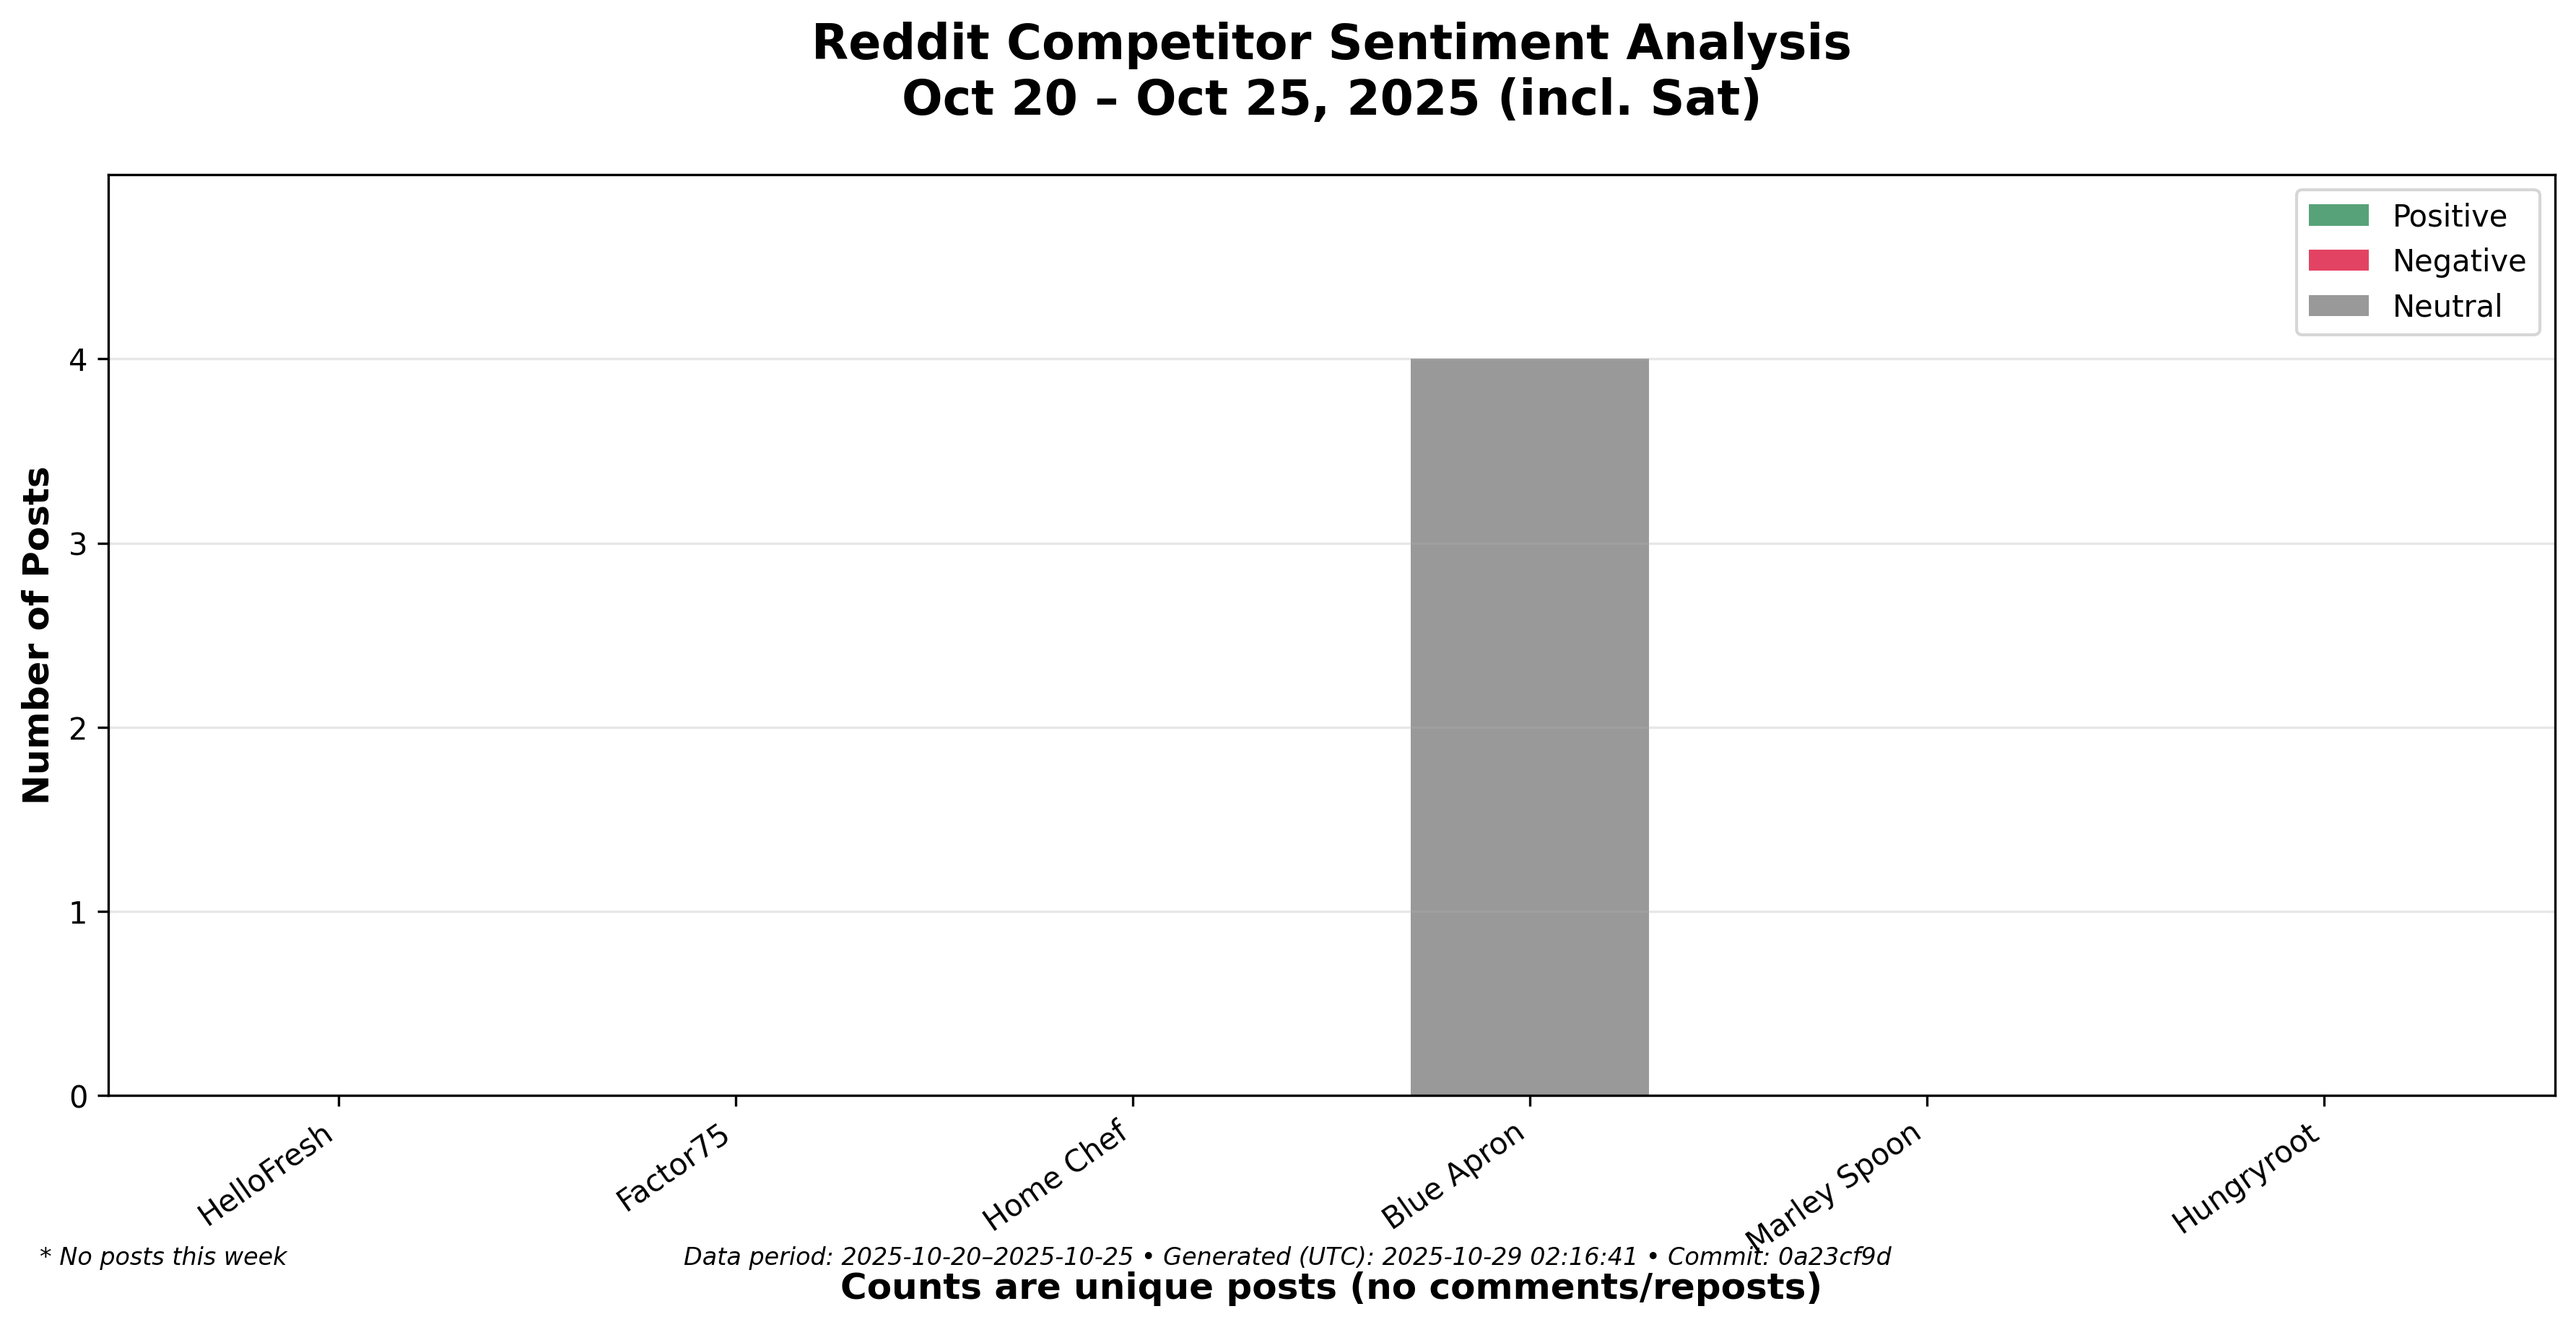
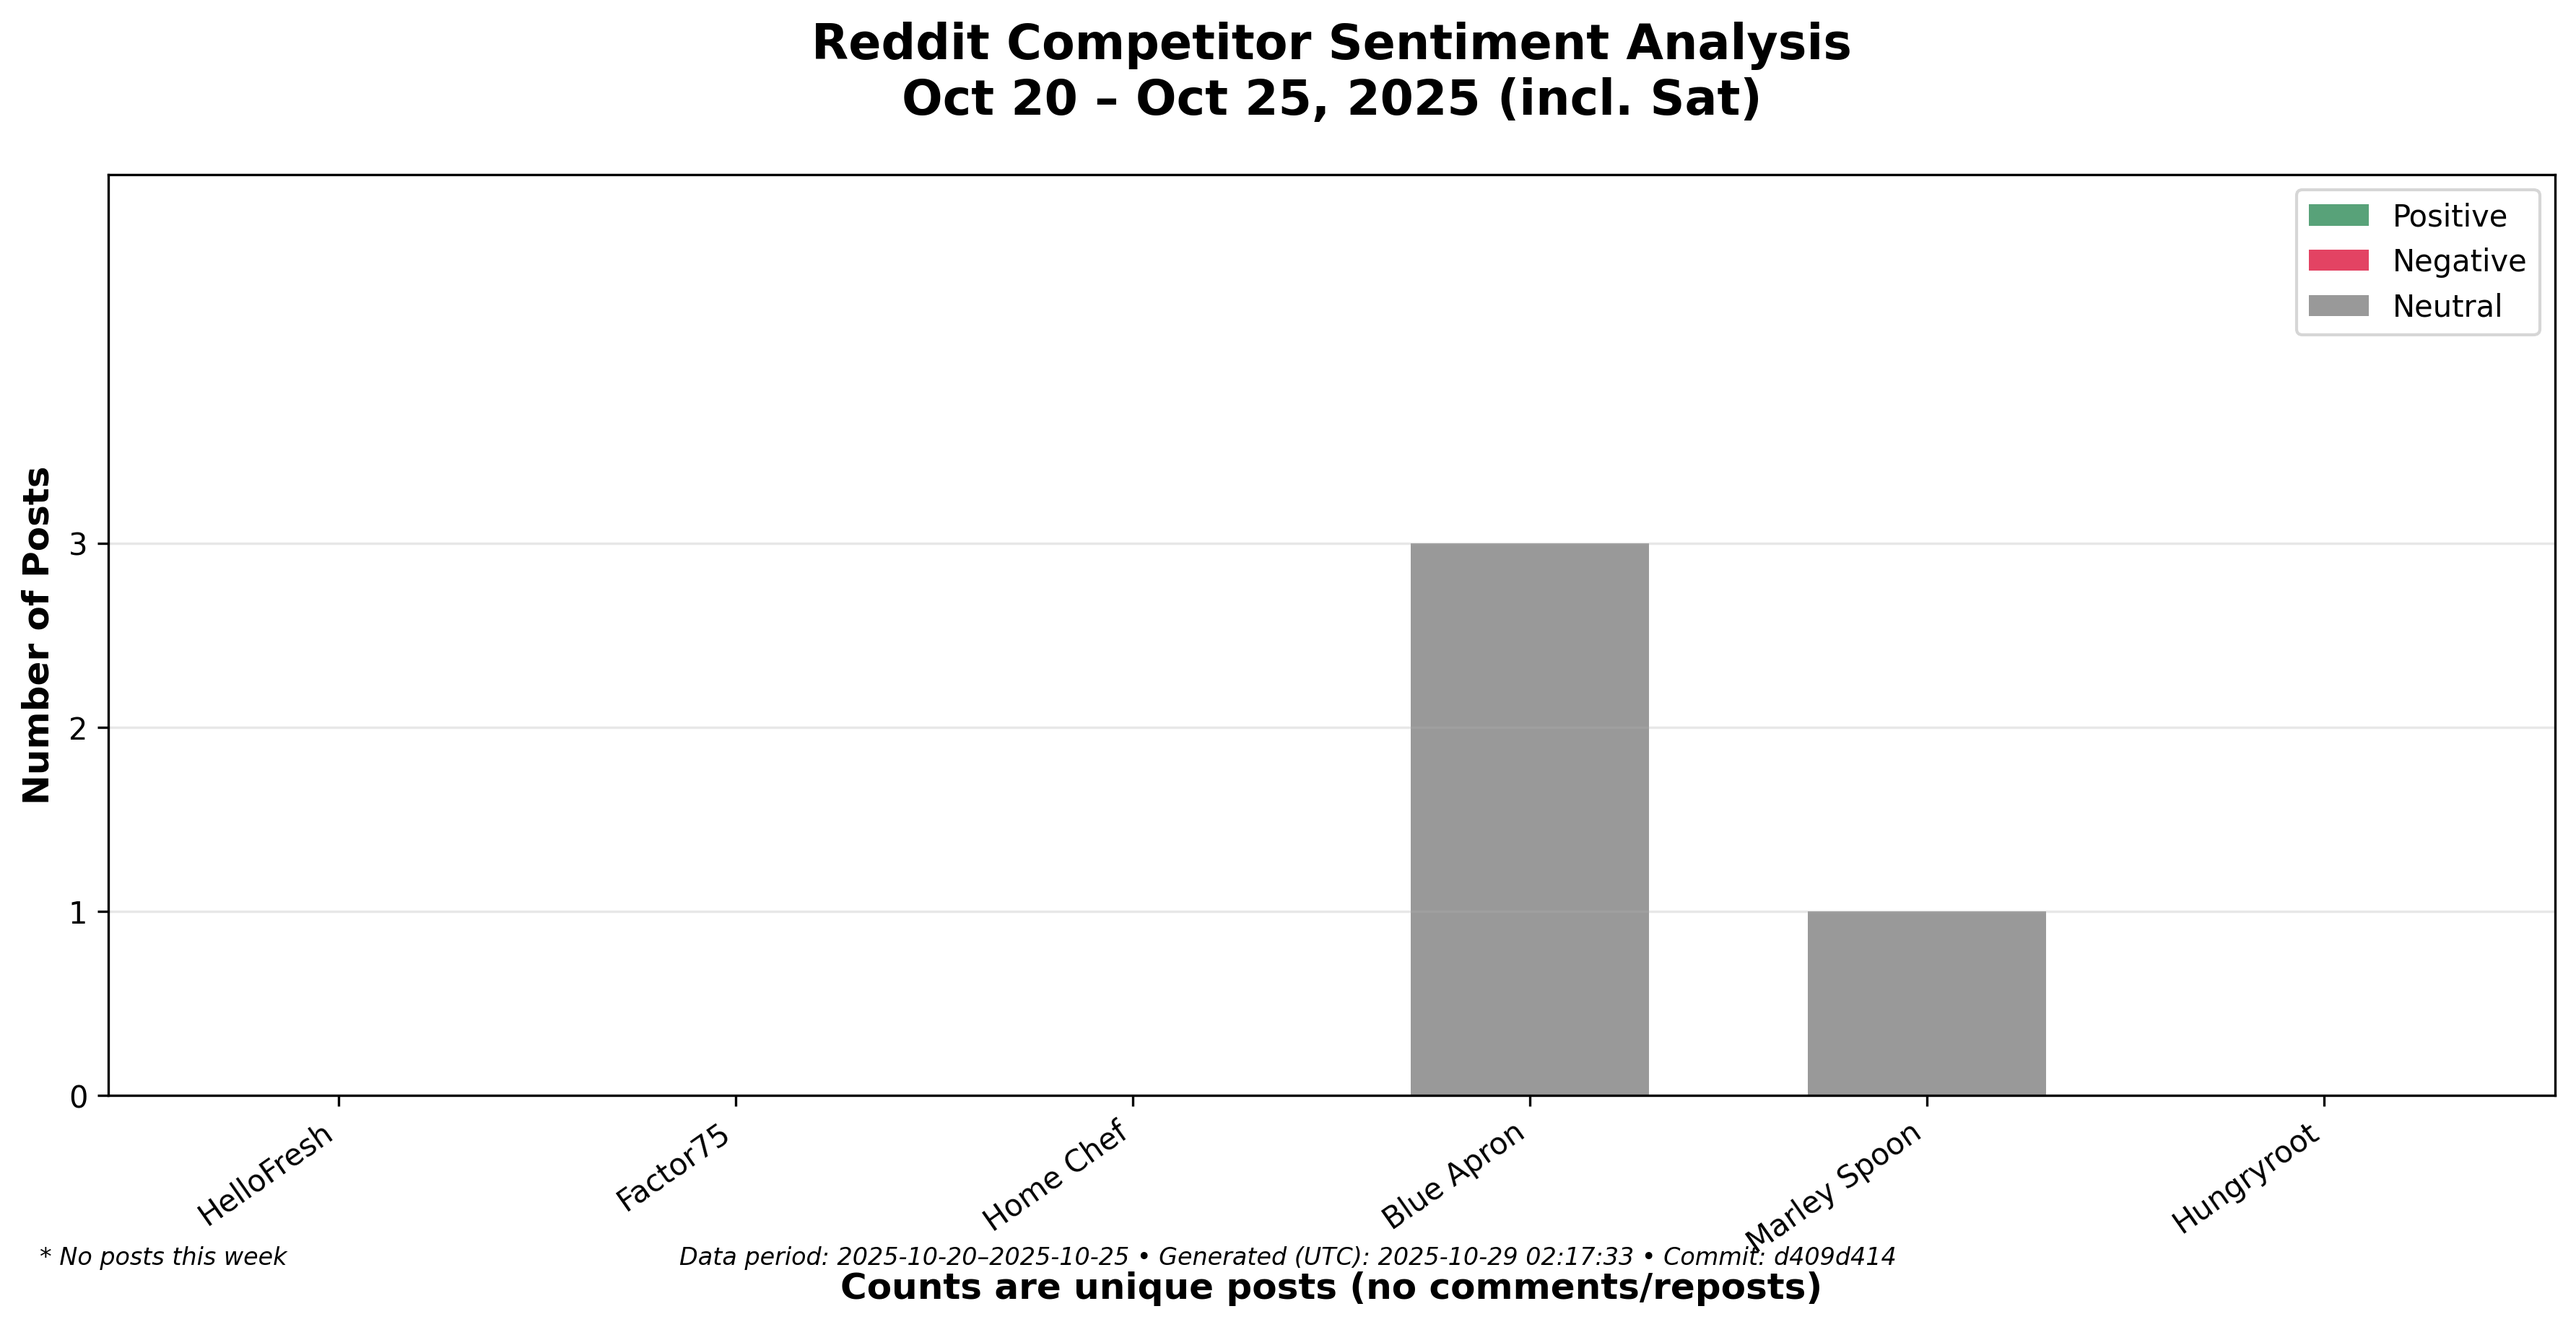
Brian's automation update 2025-10-28 22:17

Changed region(s): [[0.5289, 0.248, 0.6533, 0.4339], [0.6844, 0.6819, 0.8089, 0.8369], [0.2489, 0.9299, 0.7466, 0.9608]]

diff --git a/reports/step3_competitor_analysis_LATEST.html b/reports/step3_competitor_analysis_LATEST.html
@@ -56,8 +56,8 @@
                 </tr>
                 <tr>
                     <td class="brand-name">Marley Spoon</td>
-                    <td class="strengths">No posts recorded this week.</td>
-                    <td class="weaknesses">No posts recorded this week.</td>
+                    <td class="strengths">Low volume this week; no theme reached 60% positive.</td>
+                    <td class="weaknesses">Sentiment is balanced; no theme reached 60% negative.</td>
                 </tr>
                 <tr>
                     <td class="brand-name">Hungryroot</td>

diff --git a/reports/archive/2025-10-28/step2_ACTIONABLE_analysis.html b/reports/archive/2025-10-28/step2_ACTIONABLE_analysis.html
@@ -76,7 +76,7 @@
     </div>
     
     <div class="footer">
-        <p><strong>Analysis Period:</strong> 2025-10-20 to 2025-10-25 • <strong>Generated (UTC):</strong> 2025-10-29 02:16:41 • <strong>Commit:</strong> 0a23cf9d</p>
+        <p><strong>Analysis Period:</strong> 2025-10-20 to 2025-10-25 • <strong>Generated (UTC):</strong> 2025-10-29 02:17:34 • <strong>Commit:</strong> d409d414</p>
         <p>All Reddit links verified and lead to actual discussions • Data refreshed weekly • Built for Brian's competitive intelligence</p>
     </div>
 </body>

diff --git a/reports/step2_ACTIONABLE_analysis_LATEST.html b/reports/step2_ACTIONABLE_analysis_LATEST.html
@@ -76,7 +76,7 @@
     </div>
     
     <div class="footer">
-        <p><strong>Analysis Period:</strong> 2025-10-20 to 2025-10-25 • <strong>Generated (UTC):</strong> 2025-10-29 02:16:41 • <strong>Commit:</strong> 0a23cf9d</p>
+        <p><strong>Analysis Period:</strong> 2025-10-20 to 2025-10-25 • <strong>Generated (UTC):</strong> 2025-10-29 02:17:34 • <strong>Commit:</strong> d409d414</p>
         <p>All Reddit links verified and lead to actual discussions • Data refreshed weekly • Built for Brian's competitive intelligence</p>
     </div>
 </body>

diff --git a/accurate_scraper.py b/accurate_scraper.py
@@ -542,8 +542,8 @@ class AccurateScraper:
         irrelevant_subreddits = [
             'dyadbuilders', 'domains', 'koreamilitaryrentals', 'heritagewear', 
             'barndosandcabins', 'nashvillebeer', 'crybabydolls', 'stlouis', 
-            'morristown', 'byndinvest', 'tik toklounge', 'mitsuruxmakoto', 
-            'behindthebastards', 'christmas'
+            'morristown', 'byndinvest', 'tik toklounge', 'tiktoklounge', 
+            'mitsuruxmakoto', 'behindthebastards', 'christmas'
         ]
         
         for irrelevant_sub in irrelevant_subreddits:
